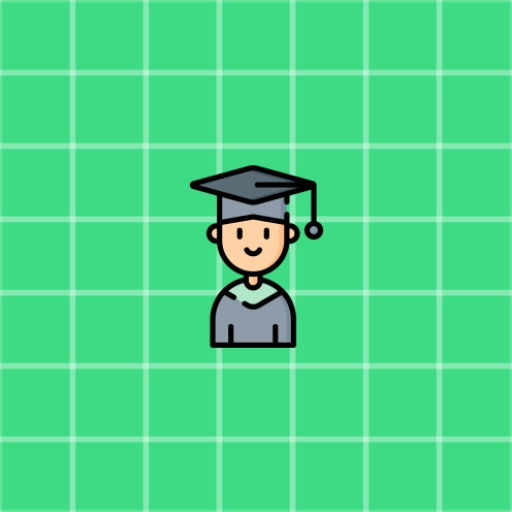
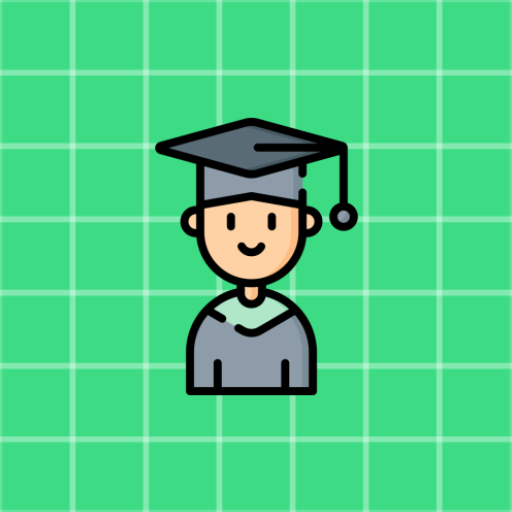
New commit from Syahmi
Design update
- Resize the student icon in a map

StudentMapActivity
- Remove "KM" in distance...already add it in layout

Changed region(s): [[0.2812, 0.2188, 0.7188, 0.7812]]

diff --git a/app/src/main/java/com/shadowcoder/ibus/StudentMapActivity.java b/app/src/main/java/com/shadowcoder/ibus/StudentMapActivity.java
@@ -725,7 +725,7 @@ public class StudentMapActivity extends FragmentActivity implements OnMapReadyCa
 
                     float distance = loc1.distanceTo(loc2)/1000;
 
-                    StudentDistance.setText(String.format("%.4g%n",distance ) + " KM");
+                    StudentDistance.setText(String.format("%.4g%n",distance));
 
                 }
             }
